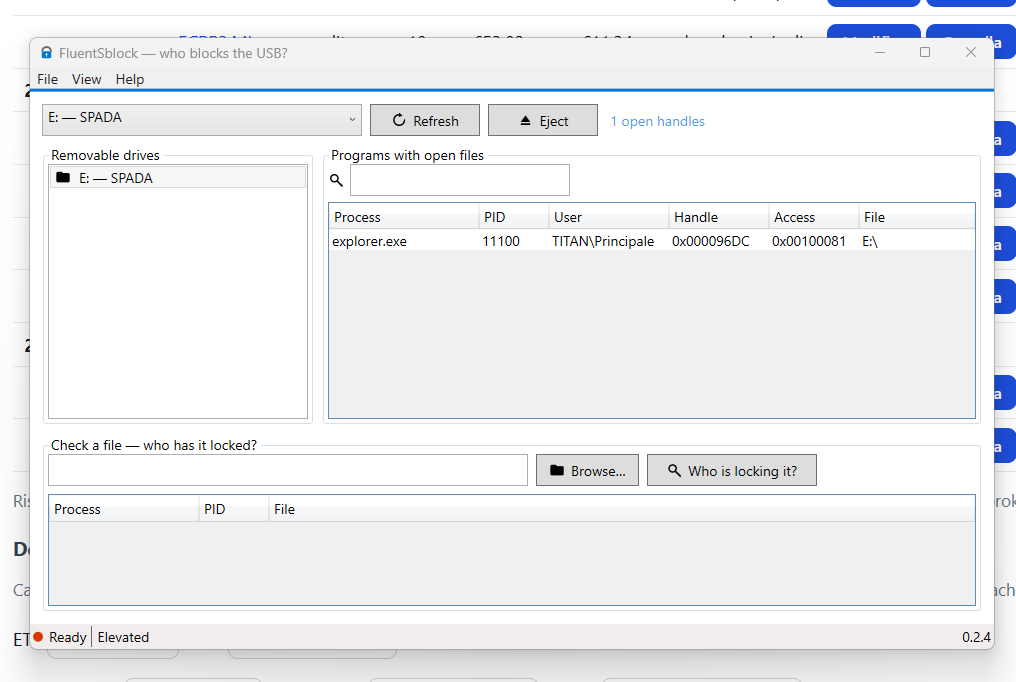
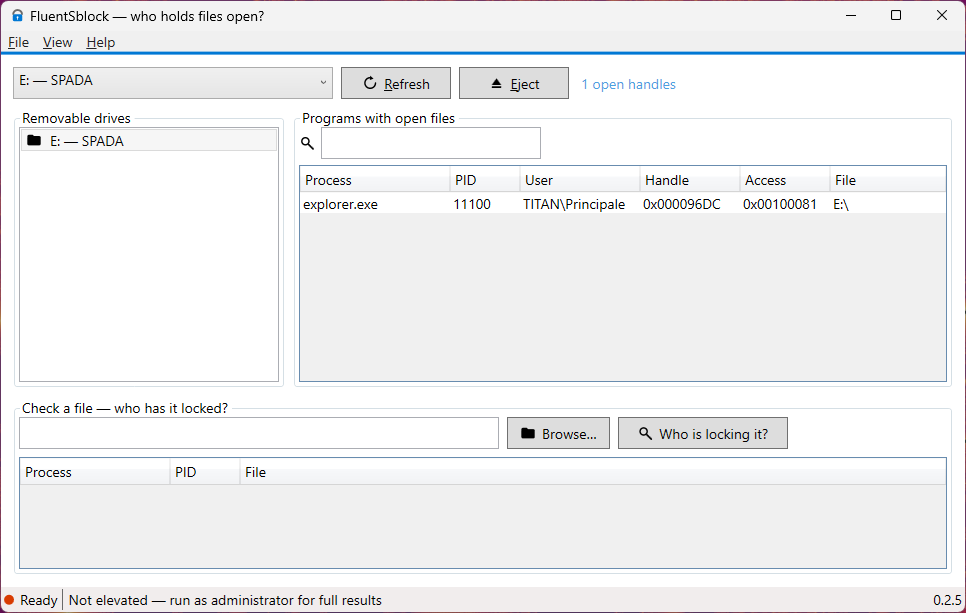
FluentSblock 0.2.6: versioned setup filename

Changed region(s): [[0.0, 0.0, 1.0, 1.0]]

diff --git a/AGENT.md b/AGENT.md
@@ -5,7 +5,7 @@ Specs for coding agents. Source of truth for purpose, architecture, UI, versioni
 ## 1. Identity
 
 - Name: `FluentSblock` (working title: "who holds files open?")
-- Current version: `0.2.5` — see `VERSION` (single-line `X.Y.Z`).
+- Current version: `0.2.6` — see `VERSION` (single-line `X.Y.Z`).
 - Repo/dir: `Z:\Lavorazioni\2026\AI\FluentSblock` (slow NAS).
 - Stack v0.1: **C# .NET 8 WPF** (no WinUI3 packaging) with manual Fluent 2 styling.
   Reason: builds with only SDK 8.0.425 installed, no extra workloads, single testable exe.
@@ -52,18 +52,18 @@ Responsive: min 800x500, 2-column `NavigationView`-like layout collapsing to 1 u
 ## 5. Architecture / files
 
 ```
-VERSION                         # "0.2.5"
+VERSION                         # "0.2.6"
 run-debug.bat                   # Debug launcher (asks UAC when not elevated)
 README.md                       # GitHub front page (screenshot in docs/)
 LICENSE.txt                     # MIT © 2026 Francesco Ferrara
 docs/screenshot.png             # main window screenshot for README
 screenshot/                     # original user captures (not cropped)
 dist/                           # release: Setup.exe + msix + exe + VERSION.txt + README.txt
-installer/                      # FluentSblock.iss (per-user Inno) + build-setup.bat + FluentSblock.cer (public)
+installer/                      # FluentSblock.iss (per-user Inno, versioned output) + build-setup.bat (/DAppVersion from VERSION) + FluentSblock.cer (public)
 AGENT.md                        # this file
 TODO.md                         # activity tracking
 src/FluentSblock/
-  FluentSblock.csproj           # net8.0-windows, UseWPF, x64, Version 0.2.5
+  FluentSblock.csproj           # net8.0-windows, UseWPF, x64, Version 0.2.6
 src/FluentSblock.Tests/
   FluentSblock.Tests.csproj     # xUnit golden: locked fixture vs handle64 -v
   App.xaml[.cs]                 # theme, language, DWM Mica

diff --git a/TODO.md b/TODO.md
@@ -1,7 +1,7 @@
 # FluentSblock — TODO.md
 
 Activity tracking. Check only what is verified with a green build.
-Current version: `0.2.5` (see `VERSION`).
+Current version: `0.2.6` (see `VERSION`).
 
 ## Version legend
 
@@ -121,6 +121,13 @@ Goal: faster, robust scan following the real handle64.exe flow
 - [ ] Manual test: plug E:, implicit preview check, real eject (confirmation with holders, veto with open file)
 - [ ] Manual test: CSV/TSV export, Help>log, USB insertion → auto-refresh
 - [ ] Tag `v0.2.0`
+
+## 0.2.6 — versioned setup filename
+
+- [x] `OutputBaseFilename=FluentSblock-Setup-{#AppVersion}` + `VersionInfoVersion={#AppVersion}.0` (no more hardcoded versions in `.iss`)
+- [x] `build-setup.bat` reads `VERSION` and passes `/DAppVersion=` (single source of truth)
+- [x] `AboutText` 0.2.6; `VERSION`+csproj `0.2.6`
+- [ ] Tag `v0.2.6`
 
 ## 0.2.5 — honest tagline + About dialog with big icon
 
